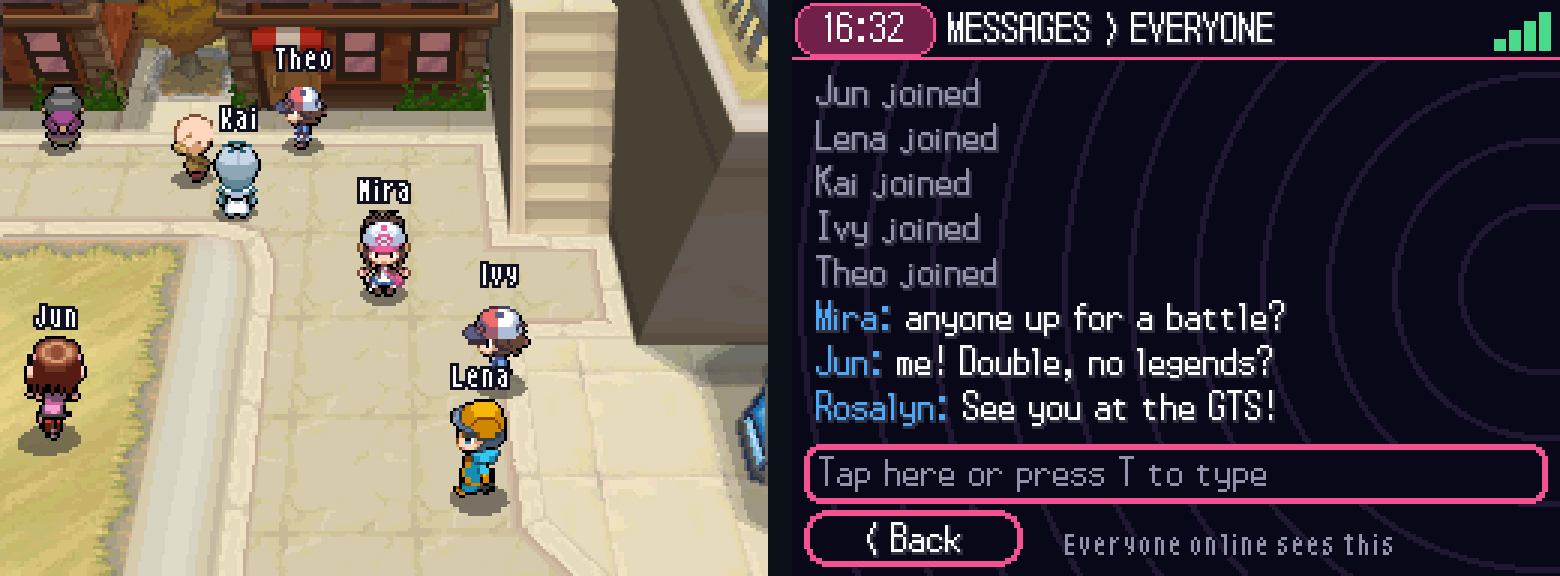
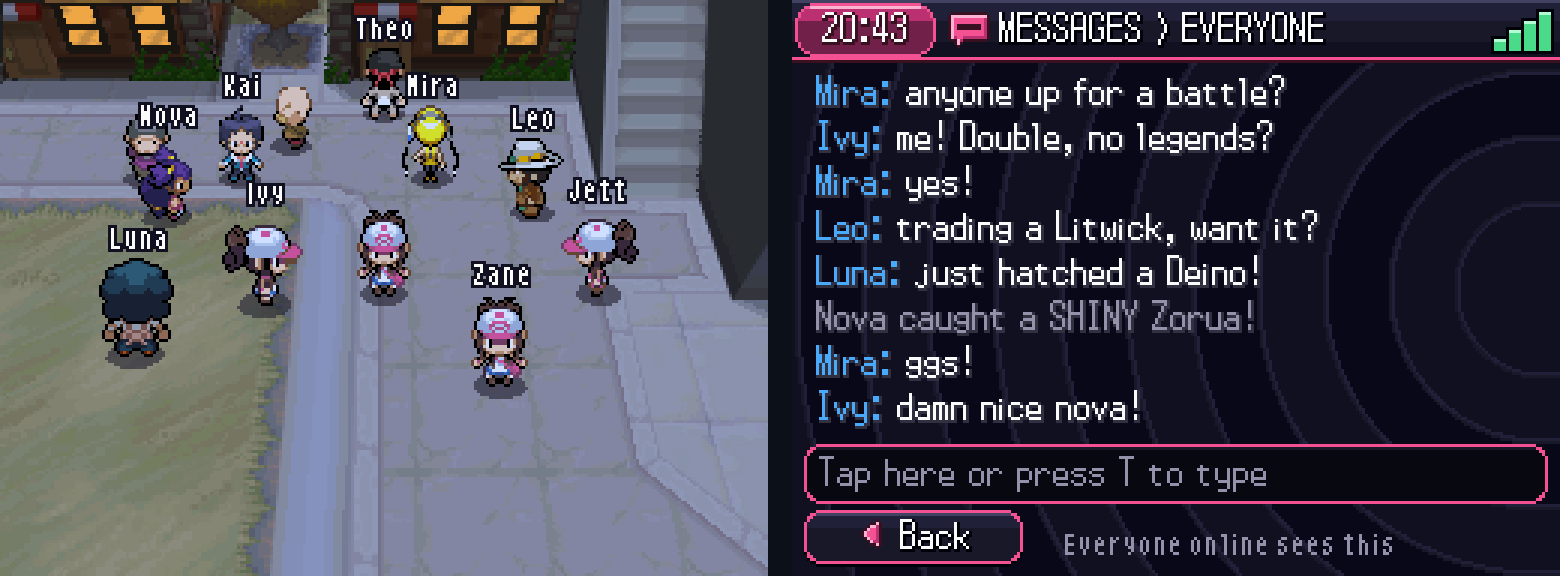
Site: FAQ, Discord links, trainer card and Join friend cards, new C-Gear shots
Retook every C-Gear screenshot in the new look, the Social chat as one
conversation, and added a FAQ section and the Discord invite.

diff --git a/public/index.html b/public/index.html
@@ -92,6 +92,7 @@ h1 .red{color:var(--red)}
 .card p{font-size:13px;color:var(--muted);line-height:1.75;margin:0}
 .card.social{--accent:var(--blue)}.card.trade{--accent:var(--green)}.card.battle{--accent:var(--purple)}
 .card.missions{--accent:var(--amber)}.card.looks{--accent:var(--red)}.card.connect{--accent:var(--teal)}
+.card.cards{--accent:#f2d24b}.card.join{--accent:#4fd6b4}
 
 /* ---- C-Gear */
 .cgear{background:var(--bg);overflow:hidden}
@@ -125,6 +126,20 @@ h1 .red{color:var(--red)}
 .note-copy h3{font-size:28px;margin:11px 0}
 .note-copy p{color:var(--muted);font-size:13px;line-height:1.75;margin:0}
 
+/* ---- FAQ */
+.faq{background:var(--bg-2)}
+.faqgrid{display:grid;grid-template-columns:.8fr 1.2fr;gap:60px;align-items:start}
+.faqlist{border-top:1px solid var(--line)}
+.faqlist details{border-bottom:1px solid var(--line)}
+.faqlist summary{list-style:none;cursor:pointer;display:flex;justify-content:space-between;align-items:center;gap:18px;padding:19px 2px;font:800 21px var(--head);text-transform:uppercase;letter-spacing:.03em}
+.faqlist summary::-webkit-details-marker{display:none}
+.faqlist summary:after{content:"+";flex:none;width:28px;height:28px;display:grid;place-items:center;border:1px solid var(--line);color:var(--teal);font:700 18px var(--body);transition:transform .2s}
+.faqlist details[open] summary:after{transform:rotate(45deg);border-color:var(--teal)}
+.faqlist summary:hover{color:#fff}
+.faqlist summary:focus-visible{outline:2px solid var(--teal);outline-offset:2px}
+.faqlist details p{margin:0 0 20px;color:var(--muted);font-size:14px;line-height:1.8;max-width:640px}
+.faqlist a,.notice a,.faq .lead a{color:var(--teal);text-decoration:underline;text-underline-offset:3px}
+
 /* ---- Community */
 .community{text-align:center;position:relative;overflow:hidden;background:radial-gradient(ellipse at 50% 0%,#16475a 0%,#101a24 58%,#0d141c 100%)}
 .community:before{content:"";position:absolute;left:50%;top:50%;transform:translate(-50%,-50%);width:650px;height:650px;border:1px solid #79d5e51b;border-radius:50%;box-shadow:0 0 0 50px #79d5e508,0 0 0 110px #79d5e505}
@@ -145,7 +160,7 @@ footer{padding:28px 0;background:#090e14;border-top:1px solid var(--line-soft);c
   nav{display:none;position:absolute;top:74px;left:0;right:0;background:#0f1922;padding:22px;flex-direction:column;align-items:flex-start;border-bottom:1px solid var(--line-soft)}
   nav.open{display:flex}
   .menu{display:block}
-  .hero-grid,.two,.geargrid{grid-template-columns:1fr;gap:38px}
+  .hero-grid,.two,.geargrid,.faqgrid{grid-template-columns:1fr;gap:38px}
   .hero-grid{min-height:0;padding:60px 0 70px}
   .hero .screen{transform:none;max-width:520px}
   .cgear .screen{max-width:440px}
@@ -176,7 +191,8 @@ footer{padding:28px 0;background:#090e14;border-top:1px solid var(--line-soft);c
       <a href="#features">Features</a>
       <a href="#cgear">C-Gear</a>
       <a href="#start">Getting started</a>
-      <a class="cta" href="#community">Join the community ↗</a>
+      <a href="#faq">FAQ</a>
+      <a class="cta" href="https://discord.gg/c7cvrsWD9a" target="_blank" rel="noopener">Join the Discord ↗</a>
     </nav>
   </div>
 </header>
@@ -210,7 +226,7 @@ footer{padding:28px 0;background:#090e14;border-top:1px solid var(--line-soft);c
       <p class="lead">Unova Online runs inside Pokémon Black and White. Other players walk the same routes and towns as you, with their names above their heads.</p>
       <ul class="facts">
         <li><strong>Together</strong>Black and White players share one world.</li>
-        <li><strong>Copies</strong>Unova is split into copies of up to 20 trainers each. Switch any time from the C-Gear.</li>
+        <li><strong>Copies</strong>Unova is split into copies of up to 20 trainers each. Switch any time from the C-Gear, or join a friend in theirs.</li>
         <li><strong>Fresh start</strong>Every new account begins a brand-new adventure.</li>
       </ul>
     </div>
@@ -228,7 +244,7 @@ footer{padding:28px 0;background:#090e14;border-top:1px solid var(--line-soft);c
     <p class="lead">Everything happens in the game itself. These are real screenshots from the playtest.</p>
     <div class="cards">
       <article class="card social">
-        <div class="art"><span class="number">Social</span><img src="images/social.png" width="1560" height="576" alt="Trainers with name tags in town, and the C-Gear chat with messages from other players" loading="lazy"></div>
+        <div class="art"><span class="number">Social</span><img src="images/social.png" width="1560" height="576" alt="A crowd of trainers with name tags in Accumula Town, and the C-Gear chat with messages from other players" loading="lazy"></div>
         <div class="body"><h3>Find your people</h3><p>See other trainers as you explore. Chat with everyone online from the C-Gear, or walk up and talk to a player to trade or battle.</p></div>
       </article>
       <article class="card trade">
@@ -251,6 +267,14 @@ footer{padding:28px 0;background:#090e14;border-top:1px solid var(--line-soft);c
         <div class="art"><span class="number">Community</span><img src="images/shiny-announcement.png" width="1560" height="576" alt="A shiny Golbat in a wild battle, and the C-Gear announcing that a player caught a shiny Golbat" loading="lazy"></div>
         <div class="body"><h3>Stay connected</h3><p>Shiny catches are announced to everyone. News, events and Mystery Gifts arrive through the C-Gear and the game's own Mystery Gift.</p></div>
       </article>
+      <article class="card cards">
+        <div class="art"><span class="number">Trainer cards</span><img src="images/trainer-card.png" width="1560" height="576" alt="A C-Gear trainer card with eight badges, Pokédex and play time, next to the Awards list" loading="lazy"></div>
+        <div class="body"><h3>Show what you've done</h3><p>Every trainer has a card with badges, Pokédex, play time, battles, trades and shinies, and 18 awards to earn. Tap any player to see theirs.</p></div>
+      </article>
+      <article class="card join">
+        <div class="art"><span class="number">Join friend</span><img src="images/join-friend.png" width="1560" height="576" alt="A friend's C-Gear profile with the Join button, and the player arriving next to that friend in their copy of Unova" loading="lazy"></div>
+        <div class="body"><h3>Join your friends</h3><p>Friend in another copy of Unova? Tap Join on their profile. You warp out and land on the same spot in their copy, right in the game.</p></div>
+      </article>
     </div>
   </div>
 </section>
@@ -265,7 +289,7 @@ footer{padding:28px 0;background:#090e14;border-top:1px solid var(--line-soft);c
       <h2>The C-Gear gets a new job.</h2>
       <p>The touch screen is home base. Its three circles are your shortcuts, and the latest chat and news sit right underneath.</p>
       <div class="gear-list">
-        <div class="gear-item"><i class="dot" style="color:var(--blue);background:var(--blue)"></i><div><strong>Social</strong><small>Chat, friends, and the copies of Unova to switch between.</small></div></div>
+        <div class="gear-item"><i class="dot" style="color:var(--blue);background:var(--blue)"></i><div><strong>Social</strong><small>Chat, friends, trainer cards, and the copies of Unova to switch between.</small></div></div>
         <div class="gear-item"><i class="dot" style="color:var(--purple);background:var(--purple)"></i><div><strong>Battle</strong><small>Challenge trainers online and set up link battles.</small></div></div>
         <div class="gear-item"><i class="dot" style="color:var(--green);background:var(--green)"></i><div><strong>Trade</strong><small>The GTS, the Items board and the Looks shop.</small></div></div>
       </div>
@@ -283,7 +307,7 @@ footer{padding:28px 0;background:#090e14;border-top:1px solid var(--line-soft);c
       <article class="step"><div class="step-num">02</div><h3>Open the client</h3><p>Unzip the Unova Online playtest on a 64-bit Windows 10 or 11 PC, start it, and pick your game.</p></article>
       <article class="step"><div class="step-num">03</div><h3>Step into Unova</h3><p>Choose a trainer name and connect. Your adventure starts fresh, and the server keeps your save safe.</p></article>
     </div>
-    <div class="notice"><strong>Playtest note:</strong> This is an early build and things will change. The game only runs while connected, and cheats and save states are turned off. The download link goes here when the playtest opens.</div>
+    <div class="notice"><strong>Playtest note:</strong> This is an early build and things will change. The game only runs while connected, and cheats and save states are turned off. The download link goes here when the playtest opens. <a href="https://discord.gg/c7cvrsWD9a" target="_blank" rel="noopener">Join the Discord</a> to hear first.</div>
   </div>
 </section>
 
@@ -305,14 +329,62 @@ footer{padding:28px 0;background:#090e14;border-top:1px solid var(--line-soft);c
   </div>
 </section>
 
+<section class="faq" id="faq">
+  <div class="wrap faqgrid">
+    <div>
+      <div class="kicker">Before you ask</div>
+      <h2 class="title">Questions, answered.</h2>
+      <p class="lead">Something not covered here? Ask in the <a href="https://discord.gg/c7cvrsWD9a" target="_blank" rel="noopener">Discord</a>.</p>
+    </div>
+    <div class="faqlist">
+      <details>
+        <summary>What is Unova Online?</summary>
+        <p>A fan-made multiplayer layer for Pokémon Black and White. The games run as they always have, in a client built on the melonDS emulator, and our server adds the other players: name tags, chat, trading, link battles, missions and more, all inside the game.</p>
+      </details>
+      <details>
+        <summary>Do I need my own copy of the game?</summary>
+        <p>Yes. Unova Online needs your own Pokémon Black or Pokémon White (US). The game is not included, and we can't share it.</p>
+      </details>
+      <details>
+        <summary>Can Black and White players play together?</summary>
+        <p>Yes. Both games share one world. You'll see players from either version, and you can trade and battle with them.</p>
+      </details>
+      <details>
+        <summary>What happens to my save?</summary>
+        <p>Every new account starts a brand-new adventure. Each time you save in the game, a copy goes to the server, so your progress is kept safe and follows your account.</p>
+      </details>
+      <details>
+        <summary>Can I play offline, or use cheats and save states?</summary>
+        <p>No. The game only runs while connected, and cheats and save states are turned off, so trades, battles and rankings stay fair for everyone.</p>
+      </details>
+      <details>
+        <summary>How many people can play at once?</summary>
+        <p>Unova is split into copies of up to 20 trainers each, so towns stay lively without getting crowded. Switch copies from the C-Gear, or tap Join on a friend's profile to land in theirs.</p>
+      </details>
+      <details>
+        <summary>What are Castelia Coins?</summary>
+        <p>The online currency. You earn them by playing, battling, trading and finishing missions, and spend them on trainer looks and on the Items board.</p>
+      </details>
+      <details>
+        <summary>What do I need to run it?</summary>
+        <p>For the playtest: a 64-bit Windows 10 or 11 PC and an internet connection.</p>
+      </details>
+      <details>
+        <summary>When can I play?</summary>
+        <p>The first playtest build is ready, and the download goes up on this page when the playtest opens. <a href="https://discord.gg/c7cvrsWD9a" target="_blank" rel="noopener">Join the Discord</a> to hear the moment it does.</p>
+      </details>
+    </div>
+  </div>
+</section>
+
 <section class="community" id="community">
   <div class="wrap">
     <div class="eyebrow">Come hang out in Unova</div>
     <h2>Unova is better<br>when we're <span style="color:var(--red)">together.</span></h2>
-    <p>Follow along with development, and be there when the playtest opens.</p>
+    <p>Development news and playtest updates land in the Discord first. Come say hi, and find trainers to trade and battle with.</p>
     <div class="actions">
-      <a class="btn btn-red" href="mailto:hello@nibi.rest?subject=Unova%20Online">Get in touch ↗</a>
-      <a class="btn btn-outline" href="#top">Back to top ↑</a>
+      <a class="btn btn-red" href="https://discord.gg/c7cvrsWD9a" target="_blank" rel="noopener">Join the Discord ↗</a>
+      <a class="btn btn-outline" href="mailto:hello@nibi.rest?subject=Unova%20Online">Get in touch ✉</a>
     </div>
   </div>
 </section>
